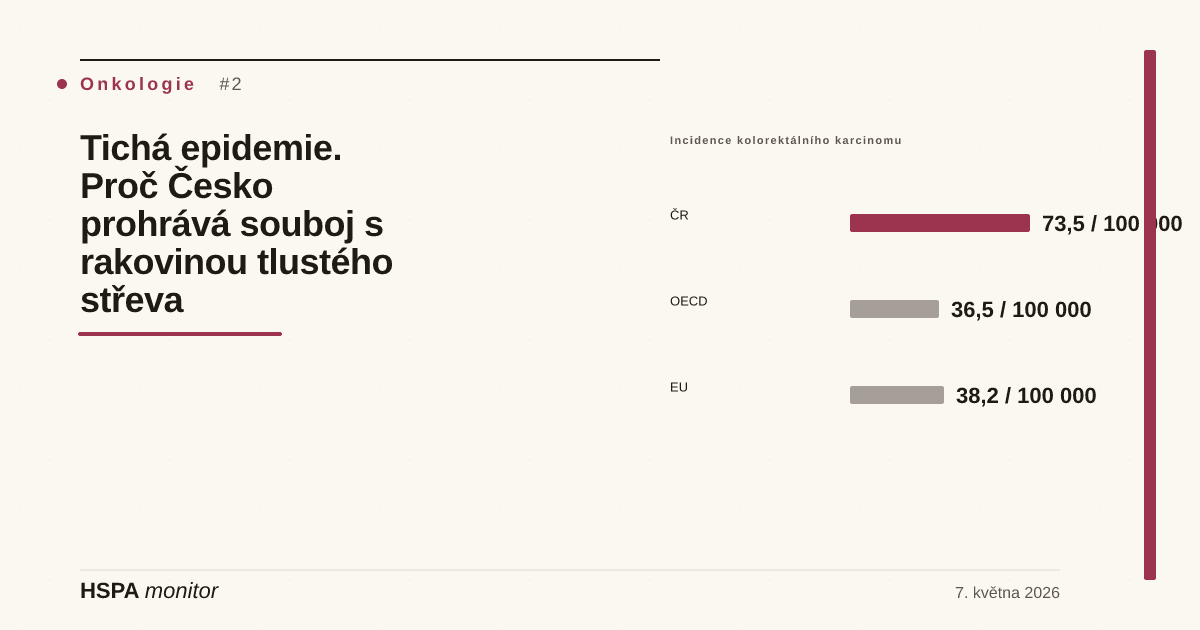
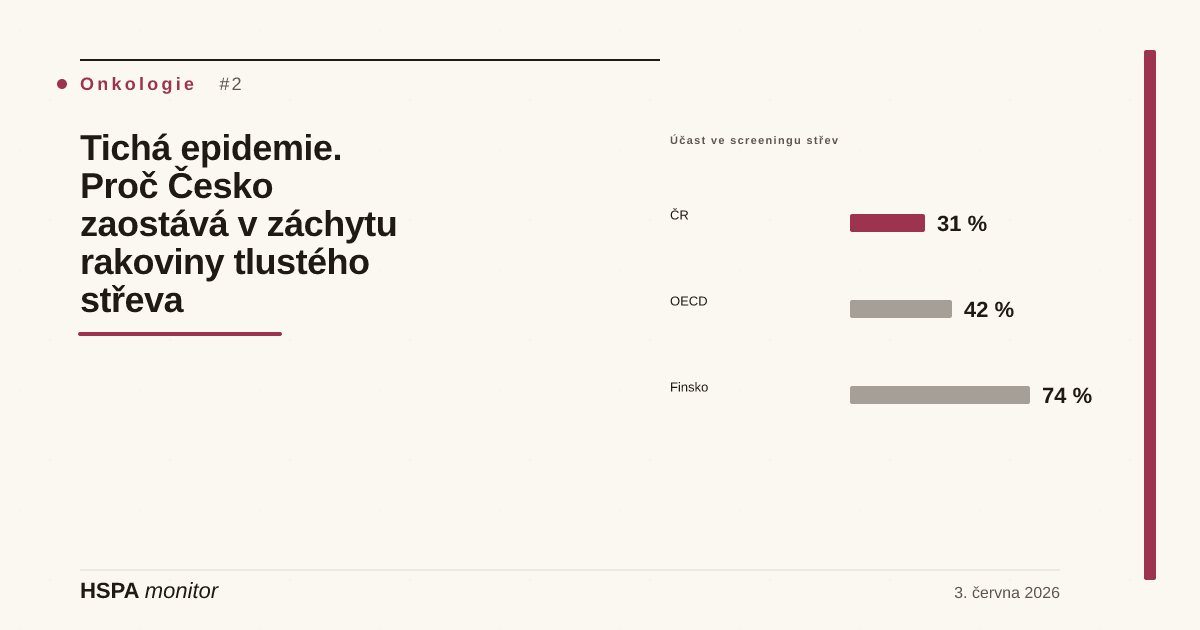
fix(clanek): rakovina-tlusteho-streva — oprava flagu + re-thesis + publikace
Vyřešen flag z 2026-06-02: centrální teze 'incidence kolorektálního karcinomu
je v ČR dvojnásobná oproti OECD' byla metodicky neplatná (hrubá míra ČR 73,5
vs věkově standardizovaný ASR průměr OECD 36,5). Přerámováno:

- Titulek, deck, lead, meta i og přepsány — z 'dvojnásobek OECD' na skutečné
  mezery: účast ve screeningu a pětileté přežití.
- Incidence (73,5) uvedena jako hrubá míra s ASR korekcí — na srovnatelném
  základě je ČR ~na úrovni EU (EU Country Cancer Profile 2025: muži 94≈93,
  ženy 53 vs 58).
- Hero figure přepnut z incidence (73,5 vs 36,5) na screening+přežití
  (31 % vs 42 %; 56 % vs 62 %).
- "Redakční upozornění — článek v revizi" → věcná poznámka k metodice.
- Účast ve screeningu aktualizována 28 → 31 % (ÚZIS NRHZS 2024, ověřeno).
- cover_viz + cover obrázek přegenerován (incidence → screening srovnání),
  titulek na coveru opraven.

Publikováno: audit-status flagged → review-pending, noindex → index,
published:true, datum 2026-06-03. validate:articles OK, validate:all OK (130),
npm test 504/0.

https://claude.ai/code/session_018KeiK4B4MdCSS1Zj5i47TP

diff --git a/05_M1_Starter/clanek-rakovina-tlusteho-streva.html b/05_M1_Starter/clanek-rakovina-tlusteho-streva.html
@@ -3,23 +3,23 @@
 <head>
 <!--
   audit:
-    last_reviewed: 2026-06-02
+    last_reviewed: 2026-06-03
     reviewer: claude-code-agent
-    status: flagged
-    notes: "Fallback-audit 2026-06-02 (daily routine). FLAGGED + staženo z produkce (published:false). Centrální teze článku (titulek/perex/hero/lead) 'výskyt kolorektálního karcinomu je v ČR dvojnásobný oproti průměru OECD' stojí na metodicky neplatném srovnání: hrubá (crude) míra ČR 73,5/100 000 (NOR) vs věkově standardizovaný (ASR) průměr OECD 36,5. Primárně ověřeno (EU Country Cancer Profile 2025, Czechia, JRC/OECD): na srovnatelném ASR základě je ČR u mužů 94 ≈ EU27 93 a u žen 53 vs EU 58 — tj. PŘIBLIŽNĚ NA EVROPSKÉM PRŮMĚRU, nikoliv dvojnásobně nad ním. Indikátor incidence_kolorektalni byl neutralizován (signal bad→neutral). Re-thesis článku (přerámování na 'screening + přežití', ne na surovou incidenci) ponechán redakci — viz GitHub issue."
+    status: review-pending
+    notes: "Opraveno 2026-06-03: vyřešen flag z 2026-06-02. Centrální teze přerámována z neplatného 'incidence dvojnásobek OECD' (hrubá ČR 73,5 vs ASR OECD 36,5) na skutečné mezery — účast ve screeningu a pětileté přežití. Incidence nyní uvedena jako hrubá míra s ASR korekcí (EU Country Cancer Profile 2025: ČR ≈ EU). Hero figure přepnut z incidence na screening+přežití. Účast ve screeningu aktualizována 28→31 % (ÚZIS NRHZS 2024). audit-status flagged→review-pending."
 -->
 <meta charset="UTF-8">
 <meta name="viewport" content="width=device-width, initial-scale=1.0">
-<title>Tichá epidemie. Proč Česko prohrává souboj s rakovinou tlustého střeva · HSPA Monitor</title>
-<meta name="description" content="Výskyt kolorektálního karcinomu je v Česku dvojnásobný oproti průměru OECD. Screeningu se účastní jen 28 procent oprávněné populace. Co se v reformě vleče a proč.">
-<meta name="robots" content="noindex, nofollow">
+<title>Tichá epidemie. Proč Česko zaostává v záchytu rakoviny tlustého střeva · HSPA Monitor</title>
+<meta name="description" content="Kolorektální karcinom je léčitelný při včasném záchytu, ale český populační screening využívá jen necelá třetina oprávněných a pětileté přežití zaostává za západní Evropou. Co se v reformě vleče a proč.">
+<meta name="robots" content="index, follow">
 <meta property="og:type" content="article">
-<meta property="og:title" content="Tichá epidemie. Proč Česko prohrává souboj s rakovinou tlustého střeva">
-<meta property="og:description" content="Výskyt kolorektálního karcinomu je v Česku dvojnásobný oproti průměru OECD. Co o tom víme a co se v reformě vleče.">
+<meta property="og:title" content="Tichá epidemie. Proč Česko zaostává v záchytu rakoviny tlustého střeva">
+<meta property="og:description" content="Léčitelná rakovina, kterou Česko zachytává pozdě: populační screening využívá jen necelá třetina oprávněných a přežití zaostává. Co se v reformě vleče.">
 <meta property="og:locale" content="cs_CZ">
-<meta property="article:published_time" content="2026-05-07">
+<meta property="article:published_time" content="2026-06-03">
 <meta property="article:section" content="Onkologie">
-<meta name="article:audit-status" content="flagged">
+<meta name="article:audit-status" content="review-pending">
 <link rel="stylesheet" href="src/styles.css">
 
   <meta property="og:image" content="assets/covers/clanek-rakovina-tlusteho-streva.png" data-cover-injected="1">
@@ -58,12 +58,12 @@
         <span class="article-tag">Onkologie</span>
         <span class="article-tag article-tag-muted">Prevence · Screening</span>
       </div>
-      <h2 class="article-title">Tichá epidemie. Proč Česko prohrává souboj s rakovinou tlustého střeva</h2>
+      <h2 class="article-title">Tichá epidemie. Proč Česko zaostává v záchytu rakoviny tlustého střeva</h2>
       <p class="article-deck">
-        Výskyt kolorektálního karcinomu je u nás zhruba dvojnásobný oproti průměru OECD. Screeningu se po deseti letech od jeho spuštění účastní jen 28 procent oprávněné populace. Není to otázka peněz na nemocnice. Je to otázka administrativy, kterou Česko odkládá.
+        Kolorektální karcinom je léčitelný, když se zachytí včas — a Česko na něj má funkční populační screening. Jenže po deseti letech od spuštění ho využívá jen necelá třetina oprávněné populace a pětileté přežití zaostává za západní Evropou. Není to otázka peněz na nemocnice. Je to otázka administrativy, kterou Česko odkládá.
       </p>
       <div class="article-meta">
-        <span class="article-meta-date">7. května 2026</span>
+        <span class="article-meta-date">3. června 2026</span>
         <span class="article-meta-sep">·</span>
         <span class="article-meta-time">7 minut čtení</span>
         <span class="article-meta-sep">·</span>
@@ -74,47 +74,46 @@
     <div class="article-body">
 
       <p class="article-lead">
-        Podle Národního onkologického registru ÚZIS bylo v ČR v posledním uzavřeném roce evidováno 73,5 nového případu kolorektálního karcinomu (MKN-10 C18–C20) na sto tisíc obyvatel; průměr zemí OECD je v dashboardu HSPA Monitoru 36,5. Žádný jiný indikátor zdravotního stavu se v Monitoru od mezinárodního měřítka neliší tak dramaticky — a přitom jde o jednu z mála rakovin, kterou umíme zachytit dřív, než vůbec stihne narůst.
+        Kolorektální karcinom patří k nejčastějším nádorům v Česku — Národní onkologický registr ÚZIS eviduje 73,5 nového případu (MKN-10 C18–C20) na sto tisíc obyvatel ročně (hrubá míra). Po věkové standardizaci, která jediná umožňuje férové mezinárodní srovnání, je přitom výskyt v ČR zhruba na úrovni evropského průměru (EU Country Cancer Profile 2025). Skutečný problém tedy není v počtu nových případů, ale v tom, že jednu z mála rakovin, kterou umíme zachytit dřív, než vůbec stihne narůst, Česko zachytává příliš pozdě — a hůř léčí.
       </p>
 
       <figure class="av-figure av-figure-wide" aria-labelledby="avKrkLeadH">
-        <figcaption class="av-figure-h" id="avKrkLeadH">Kolorektální karcinom: ČR vs. evropské referenční země</figcaption>
+        <figcaption class="av-figure-h" id="avKrkLeadH">Kde Česko reálně zaostává: screening a přežití (ČR vs. OECD)</figcaption>
         <div class="av-counter-grid">
           <div class="av-counter-block av-counter-block-bad">
-            <span class="av-counter" data-value="73.5" data-decimals="1">73,5</span>
-            <span class="av-counter-label">incidence na 100 000 (ČR)</span>
-            <span class="av-counter-foot">NOR ÚZIS</span>
+            <span class="av-counter" data-value="31" data-suffix=" %">31 %</span>
+            <span class="av-counter-label">účast ve screeningu 50–75 let (ČR)</span>
+            <span class="av-counter-foot">ÚZIS NRHZS 2024</span>
           </div>
           <div class="av-counter-block av-counter-block-good">
-            <span class="av-counter" data-value="36.5" data-decimals="1">36,5</span>
-            <span class="av-counter-label">průměr OECD (věk. std.)</span>
-            <span class="av-counter-foot">⚠ jiná metodika než ČR — viz upozornění</span>
+            <span class="av-counter" data-value="42" data-suffix=" %">42 %</span>
+            <span class="av-counter-label">průměr OECD</span>
+            <span class="av-counter-foot">Finsko 74 %, Nizozemsko 67 %</span>
           </div>
           <div class="av-counter-block av-counter-block-bad">
-            <span class="av-counter" data-value="28" data-suffix=" %">28 %</span>
-            <span class="av-counter-label">účast screening 50–75 let (ČR)</span>
-            <span class="av-counter-foot">HSPA Monitor 2024</span>
+            <span class="av-counter" data-value="56" data-suffix=" %">56 %</span>
+            <span class="av-counter-label">pětileté přežití po diagnóze (ČR)</span>
+            <span class="av-counter-foot">ÚZIS NOR</span>
           </div>
           <div class="av-counter-block av-counter-block-good">
-            <span class="av-counter" data-value="74" data-suffix=" %">74 %</span>
-            <span class="av-counter-label">účast screening Finsko</span>
-            <span class="av-counter-foot">SVIT Slovinsko 65 %, Nizozemsko 67 %</span>
+            <span class="av-counter" data-value="62" data-suffix=" %">62 %</span>
+            <span class="av-counter-label">průměr OECD</span>
+            <span class="av-counter-foot">OECD Health at a Glance</span>
           </div>
         </div>
-        <p class="av-figure-note"><strong>Zdroje:</strong> Národní onkologický registr ÚZIS; HSPA Monitor dashboard; Eurostat 2023 (programmatická data).</p>
+        <p class="av-figure-note"><strong>Zdroje:</strong> ÚZIS (NRHZS screening, NOR přežití); OECD Health at a Glance. Výskyt (incidence) ČR je po věkové standardizaci zhruba na úrovni EU — viz pozn. k metodice níže.</p>
       </figure>
 
-      <aside class="article-callout article-callout-caveat" aria-label="Caveat — srovnání 73,5 vs 36,5 není metodicky platné" style="margin:18px 0;padding:14px 18px;border-left:3px solid #b91c1c;background:var(--paper);font-family:var(--sans);font-size:13.5px;line-height:1.55;color:var(--ink-mut);">
-        <p style="margin:0 0 6px 0;color:#b91c1c;font-size:13px;letter-spacing:0.04em;text-transform:uppercase;">⚠ Redakční upozornění — článek v revizi</p>
-        <p style="margin:0 0 6px 0;">Srovnání „<strong>73,5 vs 36,5 = dvojnásobek</strong>" porovnává <strong>hrubou (crude) míru ČR</strong> s <strong>věkově standardizovaným (ASR) průměrem OECD</strong> — to je metodicky neplatné (crude je kvůli stárnoucí populaci systematicky vyšší).</p>
-        <p style="margin:0 0 6px 0;">Na srovnatelném věkově standardizovaném základě (<strong>EU Country Cancer Profile 2025</strong>, JRC/OECD) je kolorektální incidence v ČR u mužů <strong>94 ≈ EU27 93</strong> a u žen <strong>53 vs EU 58</strong> — tedy přibližně <em>na evropském průměru</em>, nikoliv dvojnásobně nad ním.</p>
-        <p style="margin:0;">Centrální teze tohoto článku je proto v revizi. Faktum zůstává relevantní (ČR měla historicky vysokou incidenci a nízkou účast ve screeningu), ale rámec „dvojnásobek OECD" neobstojí. Indikátor v dashboardu byl neutralizován.</p>
+      <aside class="article-callout article-callout-caveat" aria-label="Poznámka k metodice srovnání incidence" style="margin:18px 0;padding:14px 18px;border-left:3px solid var(--rule);background:var(--paper);font-family:var(--sans);font-size:13.5px;line-height:1.55;color:var(--ink-mut);">
+        <p style="margin:0 0 6px 0;font-size:13px;letter-spacing:0.04em;text-transform:uppercase;color:var(--ink);">Poznámka k metodice — proč neporovnáváme surovou incidenci</p>
+        <p style="margin:0 0 6px 0;">Hrubá (crude) míra incidence v ČR (73,5 / 100 000, NOR ÚZIS) je kvůli stárnoucí populaci systematicky vyšší než věkově standardizovaný (ASR) průměr OECD. Porovnávat tato dvě čísla přímo by bylo metodicky neplatné.</p>
+        <p style="margin:0;">Na srovnatelném věkově standardizovaném základě (<strong>EU Country Cancer Profile 2025</strong>, JRC/OECD) je kolorektální incidence v ČR u mužů <strong>94 ≈ EU27 93</strong> a u žen <strong>53 vs EU 58</strong> — tedy zhruba <em>na evropském průměru</em>. Skutečné mezery Česka jsou proto v <strong>účasti ve screeningu</strong> a <strong>přežití</strong>, ne v počtu nových případů — a tomu se věnuje i tento článek.</p>
       </aside>
 
       <h3>Diagnóza, kterou známe od devadesátek</h3>
 
       <p>
-        České prvenství v evropských žebříčcích výskytu rakoviny střeva není novinka. Už koncem minulého století držela republika smutný rekord, který odborníci tehdy přičítali kombinaci stravy bohaté na uzeniny a vepřové, nízkému příjmu vlákniny, sedavému způsobu života a alkoholu. O generaci později se obraz změnil jen v detailech. Spotřeba zpracovaného masa patří podle ČSÚ k nejvyšším v EU, podíl dospělých s nadváhou nebo obezitou se zastavil na šedesáti procentech a doporučenou hladinu pohybu podle WHO splňuje jen každý třetí dospělý.
+        Vysoké zatížení rakovinou střeva není v Česku novinka. Už koncem minulého století držela republika v evropských žebříčcích výskytu smutný rekord, který odborníci tehdy přičítali kombinaci stravy bohaté na uzeniny a vepřové, nízkému příjmu vlákniny, sedavému způsobu života a alkoholu. O generaci později incidence po věkové standardizaci klesla zhruba na evropský průměr, rizikové faktory ale přetrvávají. Spotřeba zpracovaného masa patří podle ČSÚ k nejvyšším v EU, podíl dospělých s nadváhou nebo obezitou se zastavil na šedesáti procentech a doporučenou hladinu pohybu podle WHO splňuje jen každý třetí dospělý.
       </p>
 
       <p>
@@ -139,7 +138,7 @@
       <h3>Pozdě objevená nemoc se hůř léčí</h3>
 
       <p>
-        Vyšší výskyt by sám o sobě nebyl tragédií, kdyby Česko stejně dobře léčilo. Pětileté přežití po diagnóze kolorektálního karcinomu je v Česku 56 procent, průměr OECD je 62. Vypadá to jako šest procentních bodů. V praxi to znamená tisíce dalších pacientů, kteří by se v Rakousku nebo Belgii dožili pětiletého horizontu po diagnóze. Každý rok.
+        I evropsky průměrný výskyt by nebyl takový problém, kdyby Česko stejně dobře a včas zachytávalo a léčilo. Pětileté přežití po diagnóze kolorektálního karcinomu je v Česku 56 procent, průměr OECD je 62. Vypadá to jako šest procentních bodů. V praxi to znamená tisíce dalších pacientů, kteří by se v Rakousku nebo Belgii dožili pětiletého horizontu po diagnóze. Každý rok.
       </p>
 
       <p>
@@ -175,7 +174,7 @@
       </p>
 
       <p>
-        Dvojnásobek OECD ve výskytu jedné nemoci nezmění reklamní kampaň na obecně zdravý životní styl. Změní ho administrativní práce, kterou nikdo nechce dělat — a kterou Česko deset let odkládá.
+        Nízkou účast ve screeningu jedné z nejlépe zachytitelných rakovin nezmění reklamní kampaň na obecně zdravý životní styl. Změní ji administrativní práce, kterou nikdo nechce dělat — a kterou Česko deset let odkládá.
       </p>
 
     </div>
@@ -184,8 +183,8 @@
       <div class="ed-kicker">Data v tomto článku</div>
       <h4 class="article-databox-h">Indikátory HSPA Monitoru, ze kterých text vychází</h4>
       <ul class="article-databox-list">
-        <li><a href="indicator.html?id=incidence_kolorektalni"><strong>Incidence kolorektálního karcinomu</strong></a> — hrubá míra ČR 73,5 / 100 000 (NOR); věkově standardizovaně (srovnatelně) je ČR <strong>na úrovni EU</strong> (muži 94 ≈ EU 93, ženy 53 vs EU 58 — EU CCP 2025), ne dvojnásobně nad OECD. Viz redakční upozornění výše.</li>
-        <li><a href="indicator.html?id=screening_kolorektalni"><strong>Účast na kolorektálním screeningu</strong></a> — 28 % vs. OECD 42 %</li>
+        <li><a href="indicator.html?id=incidence_kolorektalni"><strong>Incidence kolorektálního karcinomu</strong></a> — hrubá míra ČR 73,5 / 100 000 (NOR); věkově standardizovaně (srovnatelně) je ČR <strong>na úrovni EU</strong> (muži 94 ≈ EU 93, ženy 53 vs EU 58 — EU CCP 2025), ne dvojnásobně nad OECD. Viz poznámka k metodice výše.</li>
+        <li><a href="indicator.html?id=screening_kolorektalni"><strong>Účast na kolorektálním screeningu</strong></a> — 31 % vs. OECD 42 %</li>
         <li><a href="indicator.html?id=prezit_rakoviny_5let"><strong>Pětileté přežití po diagnóze kolorektálního karcinomu</strong></a> — 56 % vs. OECD 62 %</li>
         <li><a href="indicator.html?id=mortalita_onkologicka"><strong>Onkologická mortalita</strong></a> — 180 / 100 000 vs. OECD 163</li>
         <li><a href="indicator.html?id=ct_per_milion"><strong>CT přístroje na milion obyvatel</strong></a> — 28 vs. OECD 26</li>
@@ -228,7 +227,7 @@
         </ul>
       </div>
       <p class="article-sources-disclaimer">
-        <strong>Pozn. k revizi (2. června 2026):</strong> Článek je FLAGGED a stažen z produkce. Jeho centrální srovnání „dvojnásobek OECD" porovnává hrubou míru ČR (73,5/100 000) s věkově standardizovaným průměrem OECD (36,5) — metodicky neplatné. Primárně ověřeno (EU Country Cancer Profile 2025, JRC/OECD): na ASR základě je ČR kolorektální incidence přibližně na úrovni EU (muži 94 ≈ 93, ženy 53 vs 58). Re-thesis ponechán redakci. <strong>Pozn. k údajům:</strong> Hodnoty incidence (73,5 / 100 000) a pětiletého přežití (56 %) v článku vycházejí z dashboardu HSPA Monitoru (poslední uzavřený rok dle indikátoru: 2023, resp. 2020). Definice „pokrytí 50–75 let TOKS nebo koloskopií v doporučeném intervalu" (28 % v r. 2024) může mírně lišit od údaje OECD/Eurostat o účasti na screeningu během 2 let (CZ ≈ 30 % v r. 2023) kvůli rozdílné věkové struktuře a referenčnímu intervalu. Pro analytické účely doporučujeme vždy ověřit aktuální čísla u zdroje (kolorektum.cz, ÚZIS NOR, OECD Health at a Glance, Eurostat).
+        <strong>Pozn. k údajům:</strong> Výskyt (incidence) je v textu uveden jako hrubá míra (73,5 / 100 000, NOR ÚZIS, 2023); pro mezinárodní srovnání je nutná věková standardizace, na jejímž základě je ČR zhruba na úrovni EU (EU Country Cancer Profile 2025, JRC/OECD: muži 94 ≈ EU 93, ženy 53 vs 58). Pětileté přežití (56 %) vychází z indikátoru dashboardu (ref. rok 2020). Účast ve screeningu (31 % v r. 2024, ÚZIS NRHZS — pokrytí 50–75 let TOKS nebo koloskopií v doporučeném intervalu) se může mírně lišit od údaje OECD/Eurostat o účasti během 2 let kvůli odlišné věkové struktuře a referenčnímu intervalu. Pro analytické účely vždy ověřujte aktuální čísla u zdroje (kolorektum.cz, ÚZIS NOR, OECD Health at a Glance, Eurostat).
       </p>
     </section>
 
